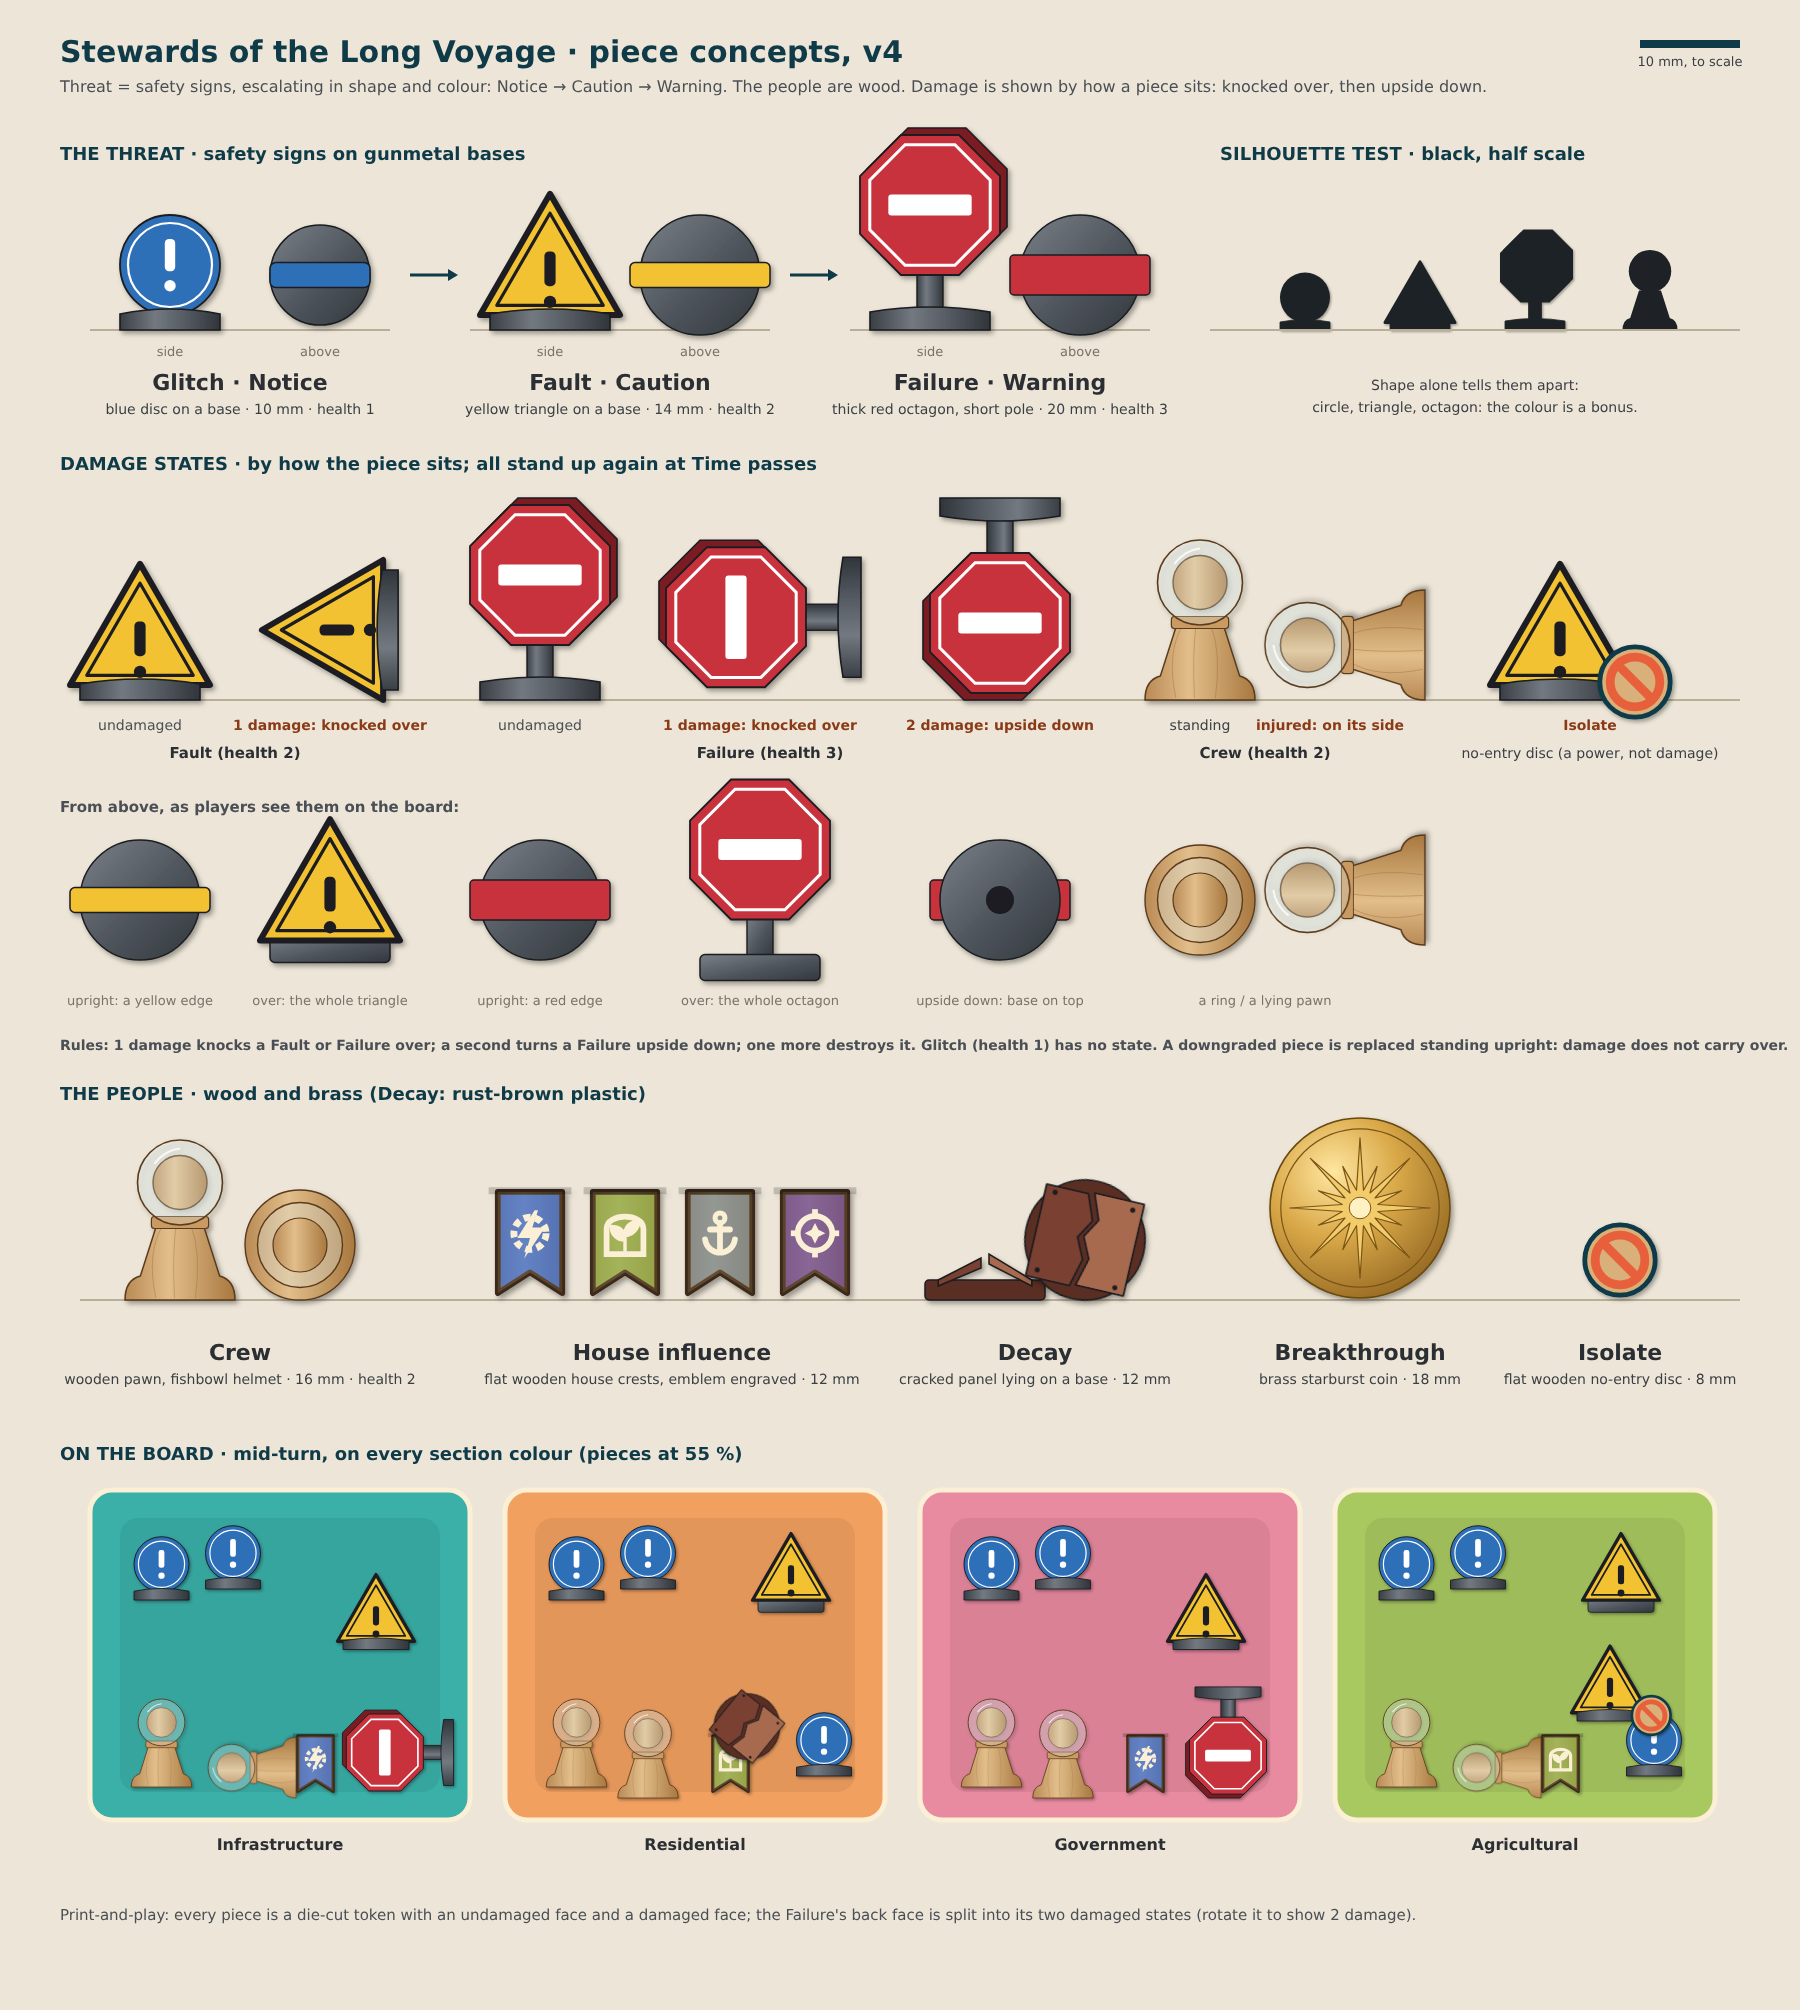
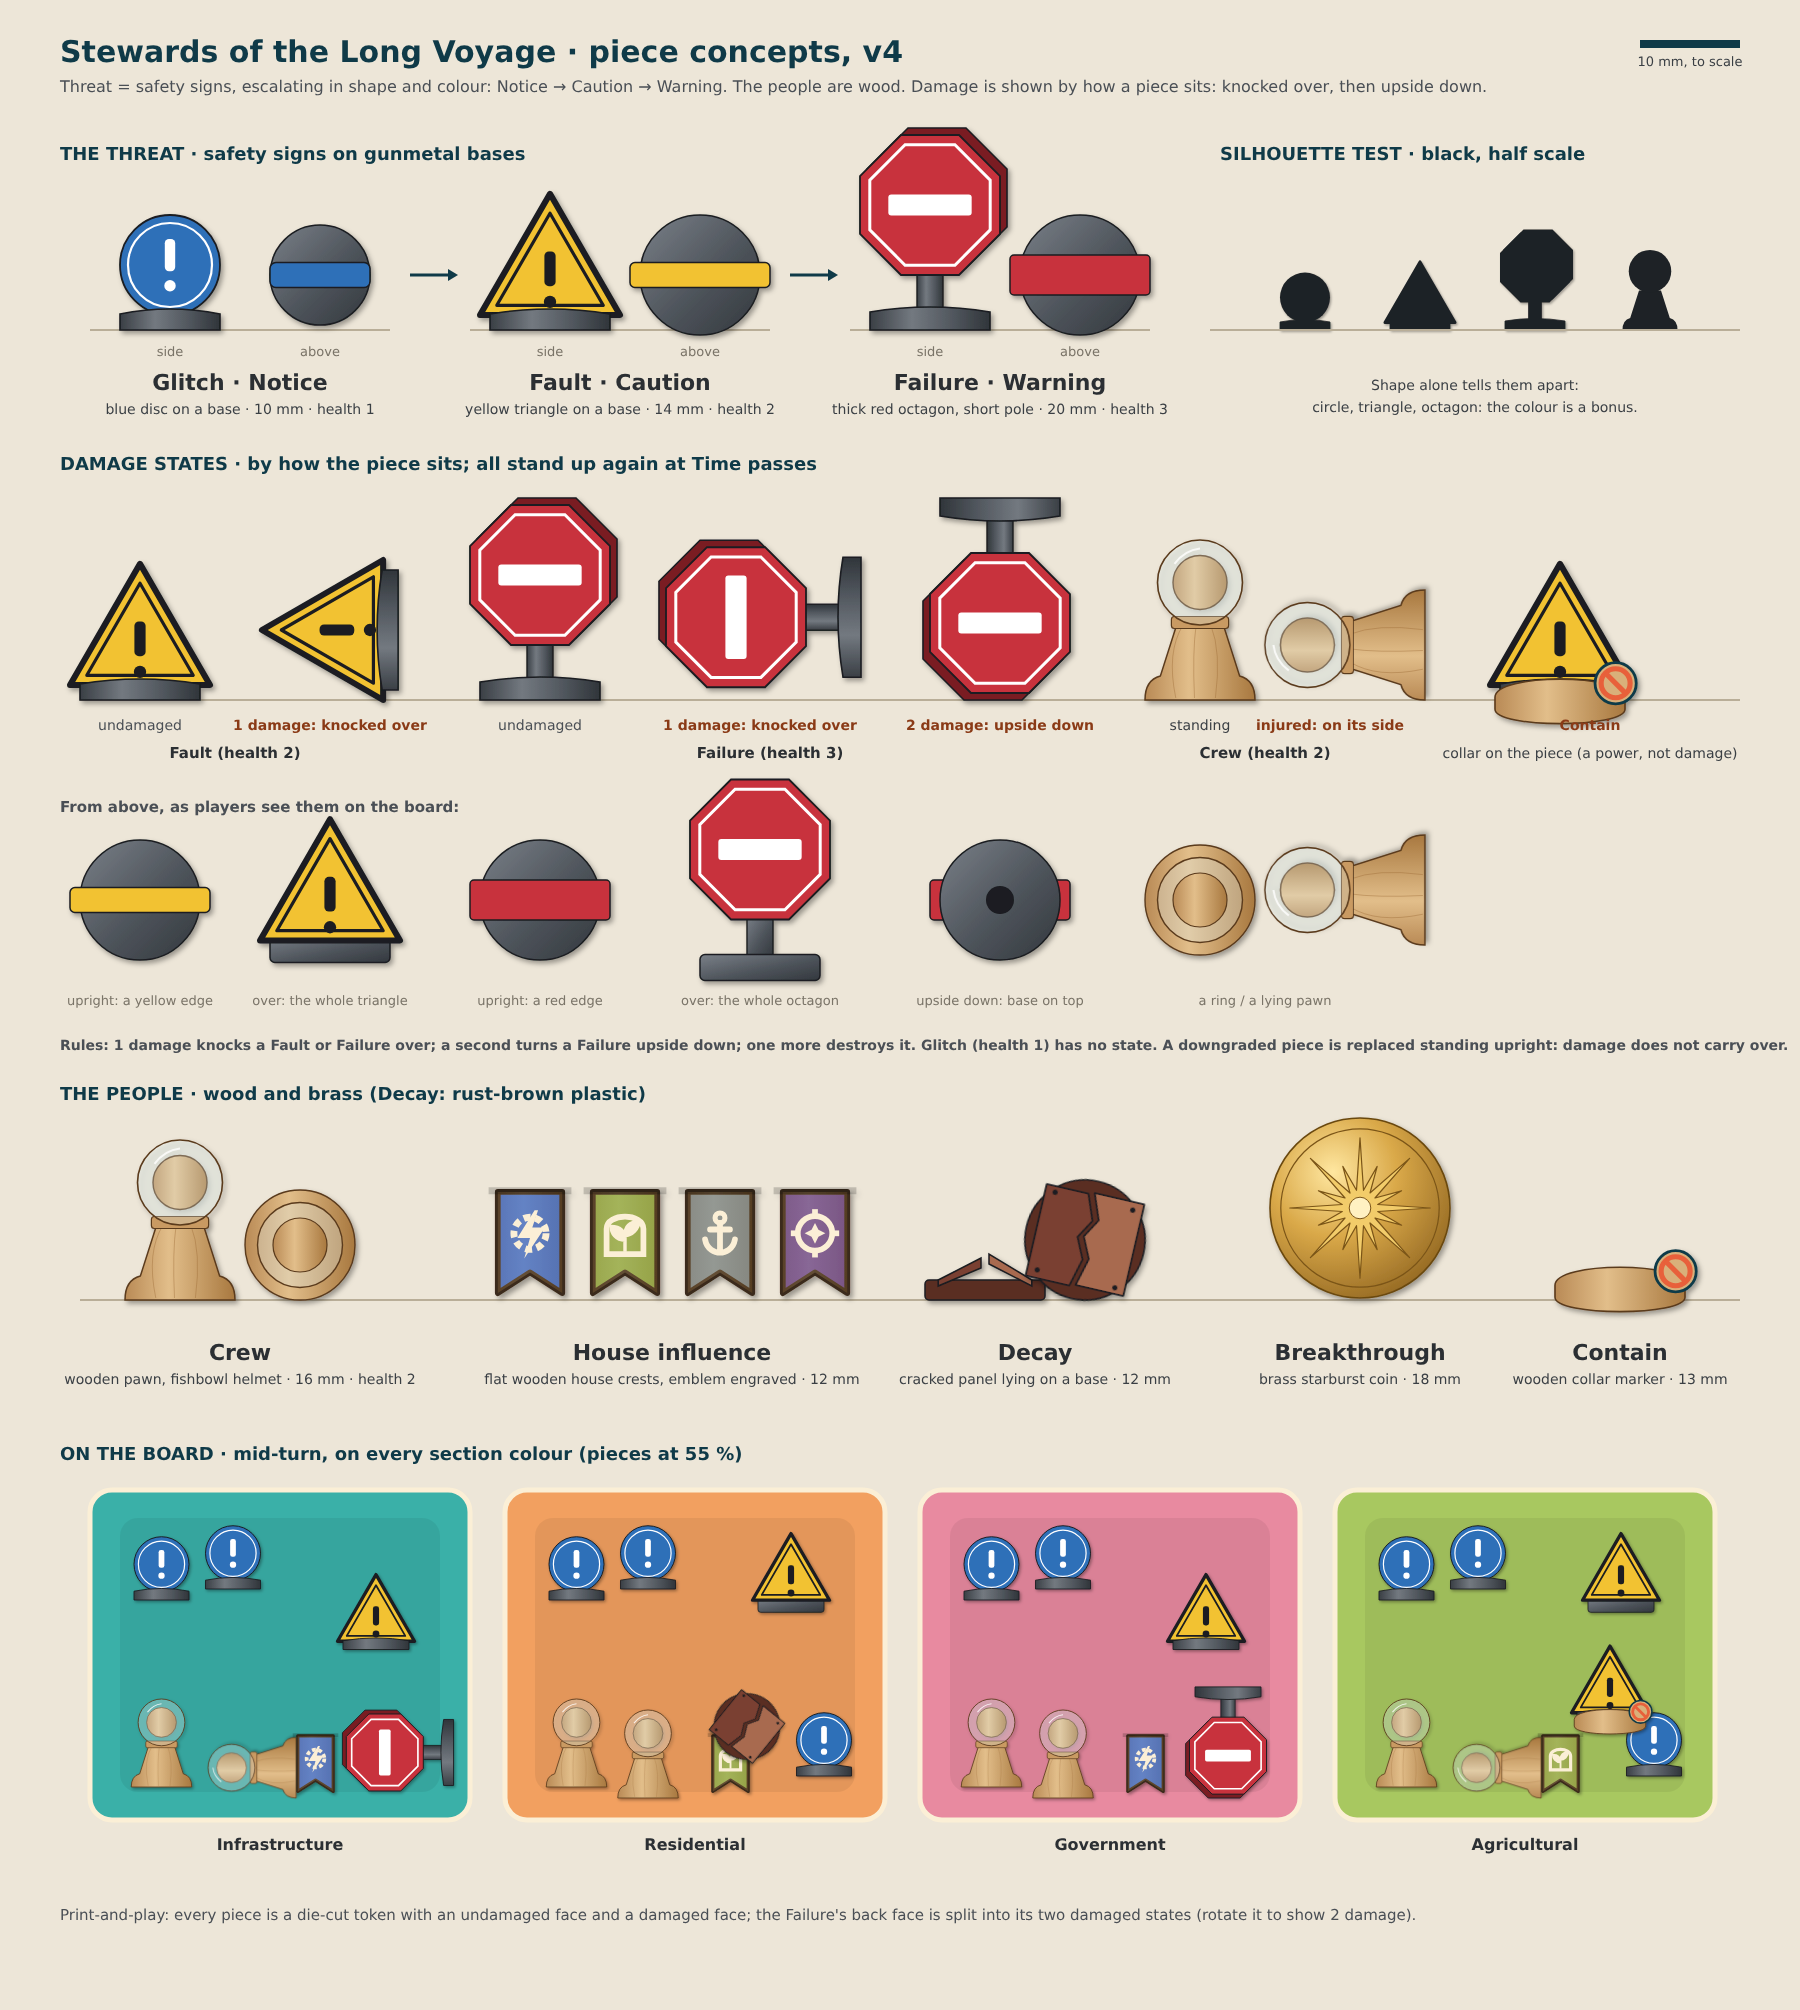
Contain (was Isolate): collar marker token on the piece's base, renamed in token_designs, table_mockup, ART_BRIEF; board D guide redrawn for the reshape, old art kept as board_d_v2_old*; batch 9 (board D repaint) submitted
Claude-Session: https://claude.ai/code/session_014To8X9aHo3rSPP2S9tniN3

diff --git a/generation-ship/tools/token_designs.py b/generation-ship/tools/token_designs.py
@@ -11,7 +11,7 @@ Damage states (GDD "Threat pieces": damage clears at Time passes) use no extra p
 piece sits: 1 damage knocks a Fault or Failure over; 2 damage turns a Failure upside down (it stands
 on the octagon's flat top edge); an injured Crew lies on its side; Glitch (health 1) has no state.
 A downgrade replaces the piece with an
-undamaged one standing upright (damage does not carry over). Isolate is a flat wooden no-entry disc.
+undamaged one standing upright (damage does not carry over). Contain (after Spirit Island's Strife) is a wooden collar marker with a no-entry badge, slipped over a threat piece's base; it moves with the piece and comes off at that piece's next Collapse.
 The sheet shows each piece from the side and from above in every state, a black-silhouette test, and
 the pieces on the four section colours. Concept only: the numbers are starting points for a sculptor.
 """
@@ -37,7 +37,7 @@ SIZES = {                      # mm
     "influence": {"base": 10, "height": 12},
     "decay": {"size": 12, "height": 5.5},
     "breakthrough": {"diameter": 18, "rays": 8},
-    "isolate": {"d": 8},
+    "contain": {"d": 13},          # the collar fits round a sign base (10-12 mm)
 }
 ACCENT, DAMAGE_INK = "#E8763A", "#8A3A16"
 HOUSE = ["#3A6FD8", "#8FB04A", "#7A8C96", "#6A4A9A"]        # Galvan, Gardeners, Keel, Voidwardens (wood stain)
@@ -215,11 +215,21 @@ def failure_top(cx, cy, solid=None, damage=0):
     return f'<g filter="url(#shadow)">{base}{slab}</g>'
 
 
+def contain_marker(cx, by, angle=0):
+    """Contain: a wooden collar with a no-entry badge, slipped over a threat piece's base; drawn on
+    the ground line by (place it over a piece's base). Moves with the piece; off at its next Collapse."""
+    w = mmv(SIZES["contain"]["d"])
+    h = mmv(2.4)
+    badge = w * .36
+    return (f'<g filter="url(#shadow)" transform="rotate({angle} {cx} {by})">'
+            f'<path d="M{cx - w / 2},{by - h * .2} C{cx - w / 2},{by - h * 1.2} {cx + w / 2},{by - h * 1.2} {cx + w / 2},{by - h * .2} '
+            f'L{cx + w / 2},{by + h * .3} C{cx + w / 2},{by + h * 1.1} {cx - w / 2},{by + h * 1.1} {cx - w / 2},{by + h * .3} Z" fill="url(#wood)" stroke="#5A3A1C" stroke-width="1.6"/>'
+            f'<g transform="translate({cx + w / 2 - badge * .7} {by - badge * .9}) scale({badge / 100})">{icons.isolate()}</g></g>')
+
+
 def isolate_tag(cx, cy, angle=0):
-    """Isolate: a flat wooden 'no entry' disc (prohibition circle and slash), placed by the piece; the
-    same disc as its icon."""
-    w = mmv(SIZES["isolate"]["d"])
-    return f'<g filter="url(#shadow)" transform="translate({cx - w / 2} {cy - w / 2}) rotate({angle} {w / 2} {w / 2}) scale({w / 100})">{icons.isolate()}</g>'
+    """Back-compat name: the Contain marker on its own (by its base line)."""
+    return contain_marker(cx, cy, angle)
 
 
 # --- the people (wood) -----------------------------------------------------------------------------
@@ -379,8 +389,8 @@ def sheet():
     o.append(crew_side(1200, base) + crew_injured(1320, base))
     o.append(label(1200, base + 30, "standing", 14) + label(1330, base + 30, "injured: on its side", 14, "bold", DAMAGE_INK))
     o.append(label(1265, base + 58, "Crew (health 2)", 15, "bold", "#2B2F33"))
-    o.append(fault_side(1560, base) + isolate_tag(1635, base - 18))
-    o.append(label(1590, base + 30, "Isolate", 14, "bold", DAMAGE_INK) + label(1590, base + 58, "no-entry disc (a power, not damage)", 14))
+    o.append(fault_side(1560, base) + contain_marker(1560, base + 2))
+    o.append(label(1590, base + 30, "Contain", 14, "bold", DAMAGE_INK) + label(1590, base + 58, "collar on the piece (a power, not damage)", 14))
 
     # Row 2b: the same states from above
     base = 900
@@ -404,7 +414,7 @@ def sheet():
     o.append(name(672, base + 60, "House influence", "flat wooden house crests, emblem engraved · 12 mm"))
     o.append(decay_side(985, base) + decay_lump(1085, base - 60, 4) + name(1035, base + 60, "Decay", "cracked panel lying on a base · 12 mm"))
     o.append(breakthrough_coin(1360, base - 92) + name(1360, base + 60, "Breakthrough", "brass starburst coin · 18 mm"))
-    o.append(isolate_tag(1620, base - 40, 0) + name(1620, base + 60, "Isolate", "flat wooden no-entry disc · 8 mm"))
+    o.append(contain_marker(1620, base - 10, 0) + name(1620, base + 60, "Contain", "wooden collar marker · 13 mm"))
 
     # Row 4: on the board, mid-turn
     y0 = 1490
@@ -426,7 +436,7 @@ def sheet():
         if i == 1:
             o.append(decay_lump(440, 430, 12))
         if i == 3:
-            o.append(fault_side(500, 420) + isolate_tag(575, 410))
+            o.append(fault_side(500, 420) + contain_marker(500, 422))
         o.append("</g>")
         o.append(label(x0 + 190, y0 + 360, sname, 16, "bold", "#2B2F33"))
     o.append(label(60, y0 + 430, "Print-and-play: every piece is a die-cut token with an undamaged face and a damaged face; the Failure's back face "
@@ -442,7 +452,7 @@ def sprite_svgs():
     s = {"glitch": glitch_side(150, g), "fault": fault_side(150, g), "fault_flat": fault_top(150, 150, damage=1),
          "failure": failure_side(150, g), "failure_side": failure_side(150, g, damage=1), "failure_up": failure_side(150, g, damage=2),
          "crew": crew_side(150, g), "crew_injured": crew_injured(150, g), "decay": decay_lump(150, 150, 4),
-         "decay_b": decay_lump(150, 150, 9), "breakthrough": breakthrough_coin(150, 150), "isolate": isolate_tag(150, 150, 0)}
+         "decay_b": decay_lump(150, 150, 9), "breakthrough": breakthrough_coin(150, 150), "contain": fault_side(150, g) + contain_marker(150, g + 2)}
     for i, c in enumerate(HOUSE):
         s[f"influence_{i}"] = influence_side(150, g, c)
     return s

diff --git a/generation-ship/tools/make_retro_batch.py b/generation-ship/tools/make_retro_batch.py
@@ -78,6 +78,7 @@ EDITS_7 = {f"house_{h}_v3": ("house_board_v3", f"house_{h}_guide.png", "1536x102
 HOUSE_LOOK.update(HOUSE_LOOK_2)
 EDITS_8 = {**{f"card_frame_v4{v}": ("card_frame_v4", "card_guide.png", "1104x1504", 1) for v in "ab"},
            **{f"wall_panel_v4{v}": ("wall_panel_v3", "wall_guide.png", "2320x960", 1) for v in "ab"}}
+EDITS_9 = {"board_d_v2": ("board", "board_d_guide.png", "1296x1536", 2)}   # board D reshaped (2026-11-06)
 GENERATIONS = {
     "card_back": ("card_back", None, "1104x1504", 1),
     **{f"icon_{t}": (f"icon_{t}", None, "1024x1024", 1) for t in ("infrastructure", "residential", "government", "agricultural")},
@@ -128,12 +129,14 @@ def build(jobs, endpoint, style, ps):
 def main():
     import argparse
     ap = argparse.ArgumentParser()
-    ap.add_argument("--batch", type=int, default=2, choices=(2, 3, 4, 5, 6, 7, 8))
+    ap.add_argument("--batch", type=int, default=2, choices=(2, 3, 4, 5, 6, 7, 8, 9))
     batch = ap.parse_args().batch
-    ps = prompts(6 if batch == 7 else batch)      # batch 7 reuses batch 6's house-board prompt
+    ps = prompts({7: 6, 9: 2}.get(batch, batch))   # batch 7 reuses batch 6 (house boards), batch 9 batch 2 (boards)
+    if batch == 9:
+        ps = prompts(2)                            # batch 9 reuses batch 2's board prompt
     if batch == 8:
         ps = {**prompts(3), **ps}                  # batch 8's Wall reuses batch 3's wall_panel_v3
-    edits, gens = {2: (EDITS, GENERATIONS), 3: (EDITS_3, GENERATIONS_3), 4: ({}, GENERATIONS_4), 5: (EDITS_5, {}), 6: (EDITS_6, {}), 7: (EDITS_7, {}), 8: (EDITS_8, {})}[batch]
+    edits, gens = {2: (EDITS, GENERATIONS), 3: (EDITS_3, GENERATIONS_3), 4: ({}, GENERATIONS_4), 5: (EDITS_5, {}), 6: (EDITS_6, {}), 7: (EDITS_7, {}), 8: (EDITS_8, {}), 9: (EDITS_9, {})}[batch]
     text = (ROOT / "art" / "CHATGPT_PROMPTS.md").read_text()
     sec = text.split("## D · Retro Space", 1)[1]
     opener = re.search(r"\*\*Opener\*\*\n```\n(.*?)\n```", sec, re.S).group(1)

diff --git a/generation-ship/tools/table_mockup.py b/generation-ship/tools/table_mockup.py
@@ -296,16 +296,16 @@ def main():
         return (ship_origin[0] + (px_ * math.cos(a) - py_ * math.sin(a) + x) * U,
                 ship_origin[1] + (px_ * math.sin(a) + py_ * math.cos(a) + y) * U)
 
-    # Mid-game spread: threats (some damaged, by posture), Crew (one injured), Decay, influence, Isolate.
+    # Mid-game spread: threats (some damaged, by posture), Crew (one injured), Decay, influence, Contain.
     state = {
         "A1": ["crew", "crew", "inf0"], "A2": ["fault_flat", "glitch"], "A3": ["inf1", "crew"],
         "A4": ["failure_side", "decay", "crew_injured"], "A5": ["glitch", "inf1", "inf1"], "A6": ["crew", "inf0"],
         "A7": ["glitch", "glitch"], "A8": ["decay_b", "fault", "crew"],
-        "B1": ["inf0", "crew", "glitch"], "B2": ["fault", "isolate"], "B3": ["inf1", "crew", "crew_injured"],
+        "B1": ["inf0", "crew", "glitch"], "B2": ["contain"], "B3": ["inf1", "crew", "crew_injured"],
         "B4": ["failure_up", "fault", "decay"], "B5": ["crew", "inf0", "inf0"], "B6": ["glitch"],
         "B7": ["crew", "decay_b"], "B8": ["inf1", "failure", "crew"],
     }
-    flat = {"fault_flat", "decay", "decay_b", "breakthrough", "isolate"}
+    flat = {"fault_flat", "decay", "decay_b", "breakthrough"}
     for bid in ("A", "B"):
         board = next(b for b in data["boards"] if b["id"] == bid)
         for sec in board["sections"]:

diff --git a/generation-ship/art/ART_BRIEF.md b/generation-ship/art/ART_BRIEF.md
@@ -32,7 +32,7 @@ A cooperative game about Great Houses stewarding a generation ship. Generations 
    - house influence (4 colours);
    - Breakthrough marker (one per style: lamp / gear / crystal / starburst).
 
-   **Piece concept v3 (2026-11-05, `art/tokens/token_sheet.svg`, drawn by `tools/token_designs.py`).** Pieces read by material and silhouette, not colour. The machine is one grey cast plastic: Glitch = a 10 mm hex nut lying flat; Fault = a 14 mm cog standing on a flat-ground foot; Failure = a 23 mm cracked vacuum tube with an octagonal ("octal") socket and a flat top cap. The people are wood: Crew = a pawn with a fishbowl helmet, influence = stained rocket nose cones; Decay = a slag lump; Breakthrough = a brass starburst coin; Isolate = a wooden lockout tag. **Damage states need no extra parts:** a damaged Fault lies flat; a Failure lies on its side at 1 damage (the octal socket stops it rolling) and stands upside down on its top cap at 2; an injured Crew lies on its side; Glitch has none. Everything stands up again at Time passes, and a downgraded piece starts upright.
+   **Piece concept v3 (2026-11-05, `art/tokens/token_sheet.svg`, drawn by `tools/token_designs.py`).** Pieces read by material and silhouette, not colour. The machine is one grey cast plastic: Glitch = a 10 mm hex nut lying flat; Fault = a 14 mm cog standing on a flat-ground foot; Failure = a 23 mm cracked vacuum tube with an octagonal ("octal") socket and a flat top cap. The people are wood: Crew = a pawn with a fishbowl helmet, influence = stained rocket nose cones; Decay = a slag lump; Breakthrough = a brass starburst coin; Contain = a wooden collar marker with a no-entry badge on a threat piece's base. **Damage states need no extra parts:** a damaged Fault lies flat; a Failure lies on its side at 1 damage (the octal socket stops it rolling) and stands upside down on its top cap at 2; an injured Crew lies on its side; Glitch has none. Everything stands up again at Time passes, and a downgraded piece starts upright.
 5. **Box cover** (optional, for the final pick).
 
 ### Hard layout constraints
